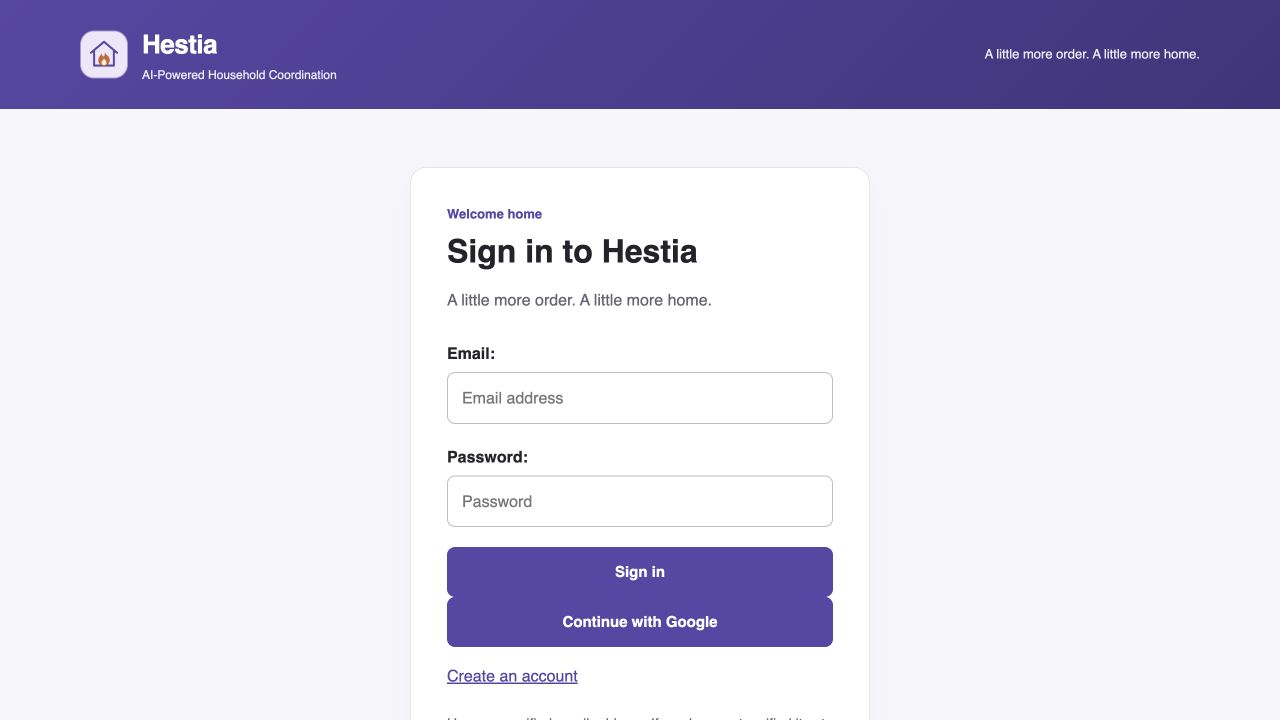
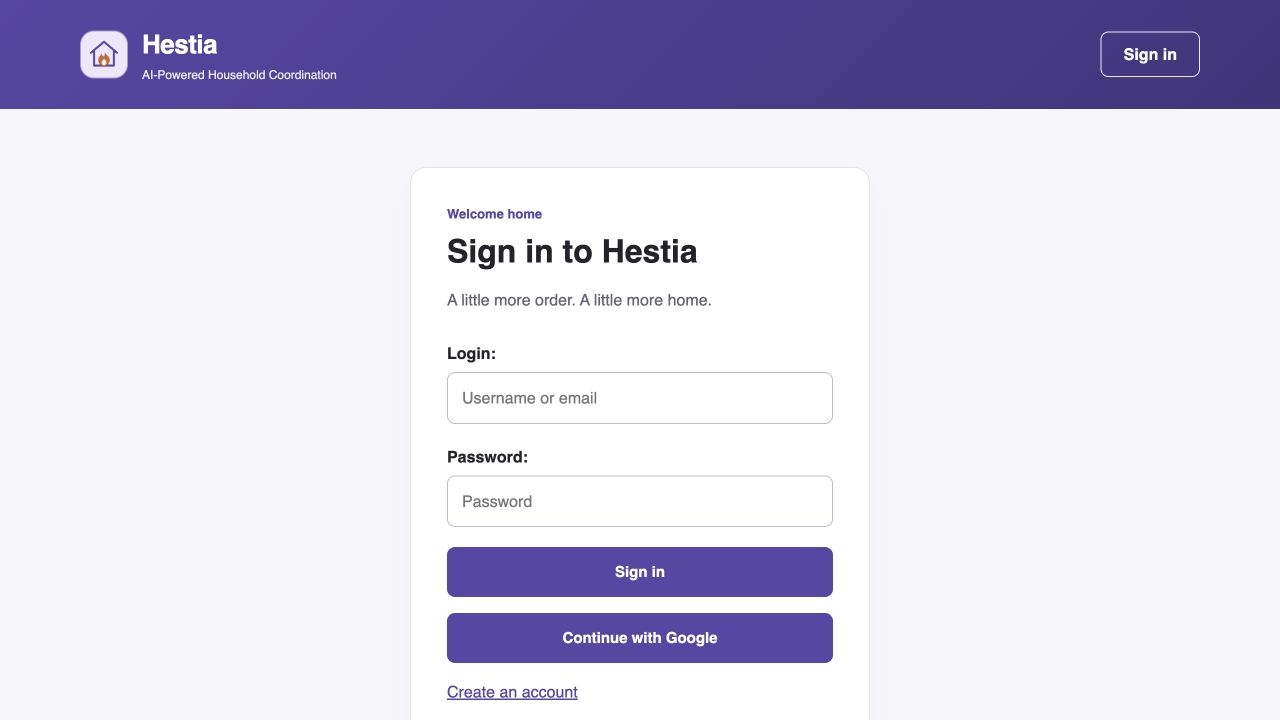
Update A5 production verification evidence

diff --git a/docs/a5-member-2/README.md b/docs/a5-member-2/README.md
@@ -69,7 +69,7 @@ Cloud settings.
 ## Production verification (October 12, 2026)
 
 The deployed site at <https://hestia12.pythonanywhere.com/> runs GitHub main
-commit `071914d` (PR #20). On PythonAnywhere, the OAuth dependencies installed,
+commit `00d1f4c` (including PRs #19 and #22). On PythonAnywhere, the OAuth dependencies installed,
 the six `socialaccount` migrations completed, `manage.py check` reported no
 issues, and all five `households.test_google_oauth` tests passed under the
 production settings. `collectstatic` found 135 files already current, and the
@@ -83,6 +83,15 @@ its callback. `/api/charts/task-priorities/` remains public (HTTP 200), while
 `/api/charts/task-creations/` and `/api/tasks/` reject anonymous requests
 (HTTP 401). The [production login screenshot](screenshots/production-login.png)
 shows the deployed button.
+
+After merging Member 1's authentication work and the account-header update,
+PythonAnywhere was fast-forwarded to `00d1f4c`, static files were collected,
+and the web app was reloaded. The updated production login screenshot shows
+the upper-right Sign in control and spacing above Continue with Google. A
+signed-in browser shows the user's full name beside Sign out and no duplicate
+Sign in navigation link. Direct password login returns home unless a safe
+`next` URL was supplied. The public priority API returns 200, private APIs
+return 401 anonymously, and the reports and chart pages work after login.
 
 The Google account-selection, consent, and return-to-site steps still require
 an authorized Google test account. They have not been verified end to end.

diff --git a/docs/a5-member-3/README.md b/docs/a5-member-3/README.md
@@ -59,14 +59,13 @@ authorization. Existing signed-in queries still have their previous scope.
 The authentication owner should handle private HTML pages and any membership
 restrictions as part of the combined application.
 
-**Deployment status:** the public production API and hosted-editor chart were
-verified against the already-deployed site. The new private API protections
-are verified locally in this branch; they still require merging this PR and
-reloading the PythonAnywhere application. A Git push alone does not deploy.
-After deployment, check the table above in a logged-out browser, then log in
-and confirm protected APIs and the daily embedded chart still load. Re-run
-the submitted spec in the hosted editor to confirm the public exception
-survives the team's authentication changes.
+**Deployment status (October 12, 2026):** The combined A5 changes are deployed
+on PythonAnywhere at `00d1f4c`. Anonymous live requests to the priority API
+return 200, while the daily-creation and task APIs return JSON 401. Anonymous
+report exports return 401 and private HTML redirects to login. A signed-in
+browser renders both the priority bar chart and daily creation line chart.
+The submitted production-API Vega-Lite spec and editor screenshot remain the
+chart evidence.
 
 Run regression checks with:
 
